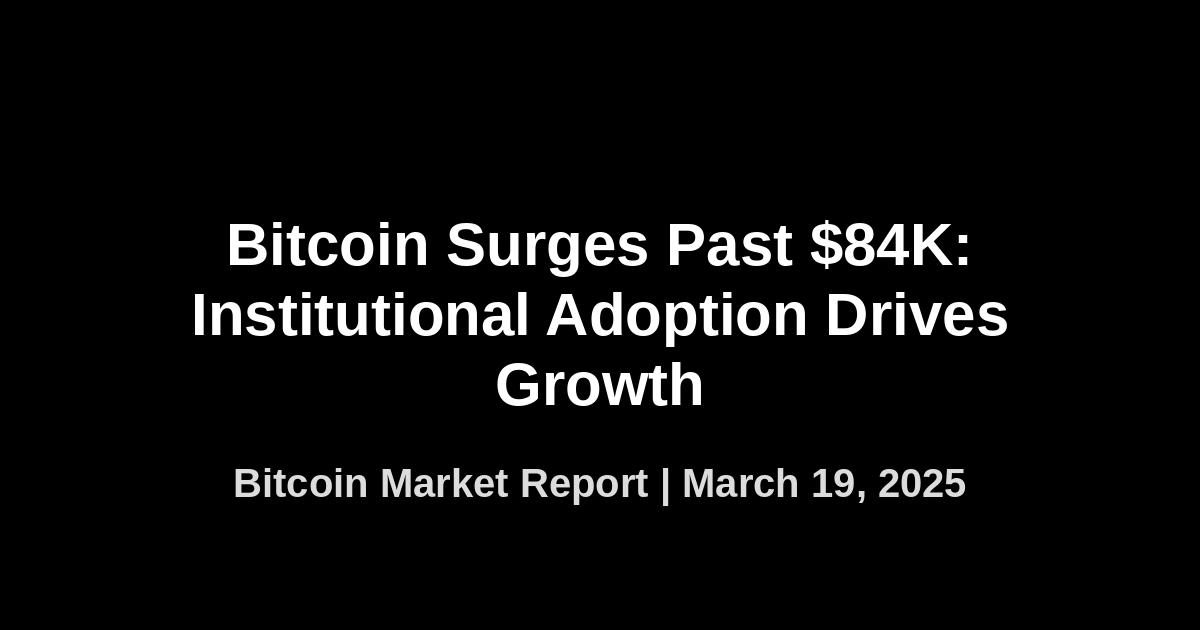
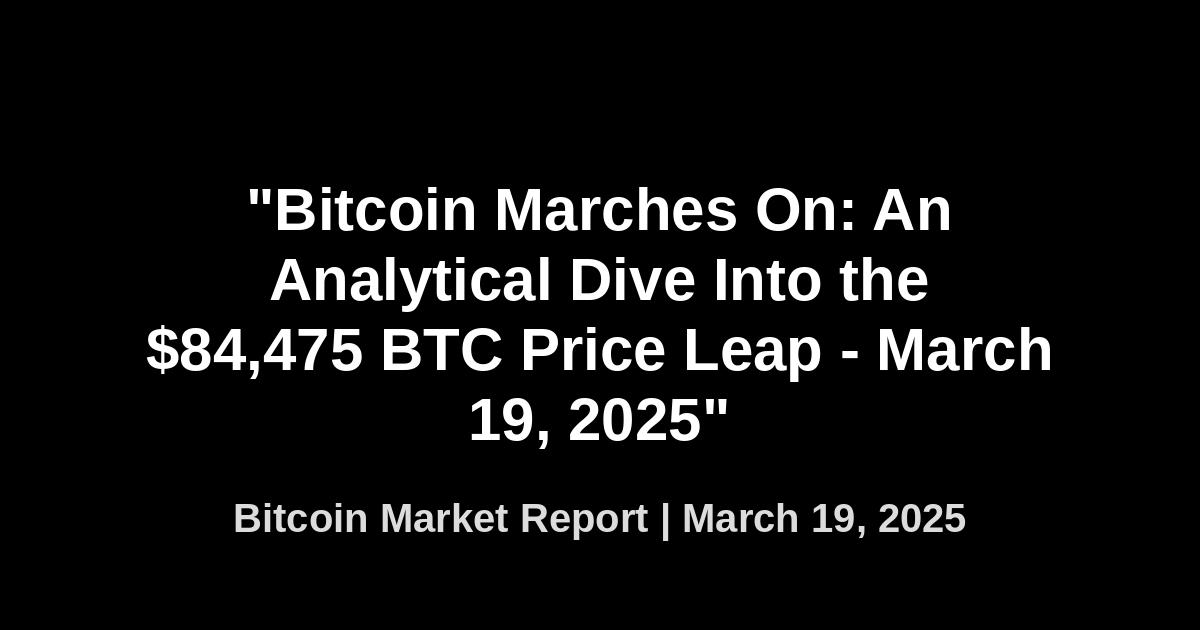
Add Bitcoin market report for bitcoin-market-report-2025-03-19

Changed region(s): [[0.1233, 0.3016, 0.8942, 0.8444]]

diff --git a/blog/bitcoin-market-report-2025-03-19/index.html b/blog/bitcoin-market-report-2025-03-19/index.html
@@ -6,18 +6,109 @@
     <meta http-equiv="X-UA-Compatible" content="ie=edge">
     
     <!-- SEO Meta Tags -->
-    <title>Bitcoin Market Report: March 19, 2025 | Michael J Ditter</title>
-    <meta name="description" content="Comprehensive analysis of the Bitcoin market showing a 3.60% increase to $84,570, with insights on regulatory developments and institutional adoption.">
-    <meta name="keywords" content="Bitcoin, Market Analysis, Cryptocurrency, Michael J Ditter, Bitcoin ETF, Institutional Adoption">
+    <title>"Bitcoin Marches On: An Analytical Dive Into the $84,475 BTC Price Leap - March 19, 2025" | Michael J Ditter</title>
+    <meta name="description" content="Discover the secrets behind Bitcoin's astounding $84,475 price leap on March 19, 2025. Dive into this week's insightful market analysis now!">
+    <meta name="keywords" content="Bitcoin, Cryptocurrency, Market Analysis, Trading, Michael J Ditter">
     <meta name="author" content="Michael J Ditter">
     
     <!-- Canonical URL -->
     <link rel="canonical" href="https://www.michaelditter.com/blog/bitcoin-market-report-2025-03-19/">
     
+    <!-- Open Graph / Facebook -->
+    <meta property="og:type" content="article">
+    <meta property="og:url" content="https://www.michaelditter.com/blog/bitcoin-market-report-2025-03-19/">
+    <meta property="og:title" content=""Bitcoin Marches On: An Analytical Dive Into the $84,475 BTC Price Leap - March 19, 2025"">
+    <meta property="og:description" content="Discover the secrets behind Bitcoin's astounding $84,475 price leap on March 19, 2025. Dive into this week's insightful market analysis now!">
+    <meta property="og:image" content="https://www.michaelditter.com/img/blog/bitcoin-market-report-2025-03-19.jpg">
+    <meta property="article:published_time" content="2025-03-19T18:22:37+00:00">
+    <meta property="article:author" content="https://www.michaelditter.com/#person">
+    <meta property="article:section" content="Bitcoin">
+    <meta property="article:tag" content="Bitcoin">
+    <meta property="article:tag" content="Cryptocurrency">
+    <meta property="article:tag" content="Market Analysis">
+    <meta property="article:tag" content="Trading">
+    
+    <!-- Twitter -->
+    <meta property="twitter:card" content="summary_large_image">
+    <meta property="twitter:url" content="https://www.michaelditter.com/blog/bitcoin-market-report-2025-03-19/">
+    <meta property="twitter:title" content=""Bitcoin Marches On: An Analytical Dive Into the $84,475 BTC Price Leap - March 19, 2025"">
+    <meta property="twitter:description" content="Discover the secrets behind Bitcoin's astounding $84,475 price leap on March 19, 2025. Dive into this week's insightful market analysis now!">
+    <meta property="twitter:image" content="https://www.michaelditter.com/img/blog/bitcoin-market-report-2025-03-19.jpg">
+    <meta property="twitter:creator" content="@michaeljditter">
+    
+    <!-- Favicons -->
+    <link rel="apple-touch-icon" sizes="180x180" href="/img/favicon/apple-touch-icon.png">
+    <link rel="icon" type="image/png" sizes="32x32" href="/img/favicon/favicon-32x32.png">
+    <link rel="icon" type="image/png" sizes="16x16" href="/img/favicon/favicon-16x16.png">
+    <link rel="manifest" href="/img/favicon/site.webmanifest">
+    
     <!-- CSS and Fonts -->
     <link rel="stylesheet" href="/css/styles.css">
     <link rel="stylesheet" href="/css/blog.css">
+    <link rel="preconnect" href="https://fonts.googleapis.com">
+    <link rel="preconnect" href="https://fonts.gstatic.com" crossorigin>
     <link href="https://fonts.googleapis.com/css2?family=Inter:wght@300;400;500;600;700&family=Playfair+Display:wght@700&display=swap" rel="stylesheet">
+    
+    <!-- Schema.org structured data for Article -->
+    <script type="application/ld+json">
+    {
+        "@context": "https://schema.org",
+        "@type": "Article",
+        "headline": ""Bitcoin Marches On: An Analytical Dive Into the $84,475 BTC Price Leap - March 19, 2025"",
+        "description": "Discover the secrets behind Bitcoin's astounding $84,475 price leap on March 19, 2025. Dive into this week's insightful market analysis now!",
+        "image": "https://www.michaelditter.com/img/blog/bitcoin-market-report-2025-03-19.jpg",
+        "datePublished": "2025-03-19T18:22:37+00:00",
+        "dateModified": "2025-03-19T18:22:37+00:00",
+        "author": {
+            "@type": "Person",
+            "@id": "https://www.michaelditter.com/#person",
+            "name": "Michael J Ditter",
+            "url": "https://www.michaelditter.com"
+        },
+        "publisher": {
+            "@type": "Organization",
+            "name": "Michael J Ditter",
+            "logo": {
+                "@type": "ImageObject",
+                "url": "https://www.michaelditter.com/img/logo.png"
+            }
+        },
+        "mainEntityOfPage": {
+            "@type": "WebPage",
+            "@id": "https://www.michaelditter.com/blog/bitcoin-market-report-2025-03-19/"
+        },
+        "keywords": "Bitcoin, Cryptocurrency, Market Analysis, Trading, Michael J Ditter",
+        "articleSection": "Bitcoin"
+    }
+    </script>
+    
+    <!-- Schema.org structured data for BreadcrumbList -->
+    <script type="application/ld+json">
+    {
+        "@context": "https://schema.org",
+        "@type": "BreadcrumbList",
+        "itemListElement": [
+            {
+                "@type": "ListItem",
+                "position": 1,
+                "name": "Home",
+                "item": "https://www.michaelditter.com/"
+            },
+            {
+                "@type": "ListItem",
+                "position": 2,
+                "name": "Blog",
+                "item": "https://www.michaelditter.com/blog/"
+            },
+            {
+                "@type": "ListItem",
+                "position": 3,
+                "name": ""Bitcoin Marches On: An Analytical Dive Into the $84,475 BTC Price Leap - March 19, 2025"",
+                "item": "https://www.michaelditter.com/blog/bitcoin-market-report-2025-03-19/"
+            }
+        ]
+    }
+    </script>
 </head>
 <body class="blog-post">
     <!-- Header with Navigation -->
@@ -33,6 +124,11 @@
                     <li><a href="/#speaking">Speaking</a></li>
                     <li><a href="/#contact" class="btn-primary">Contact</a></li>
                 </ul>
+                <button class="mobile-menu-toggle" aria-label="Toggle Navigation Menu">
+                    <span></span>
+                    <span></span>
+                    <span></span>
+                </button>
             </nav>
         </div>
     </header>
@@ -43,7 +139,7 @@
             <div class="blog-breadcrumb">
                 <a href="/">Home</a> / <a href="/blog/">Blog</a> / <span>Bitcoin Report</span>
             </div>
-            <h1>Bitcoin Surges 3.60% to $84,570: Analysis of Market Drivers and Future Outlook</h1>
+            <h1>"Bitcoin Marches On: An Analytical Dive Into the $84,475 BTC Price Leap - March 19, 2025"</h1>
             <div class="blog-meta">
                 <div class="blog-author">
                     <img src="/img/profile/michael-ditter-headshot.jpg" alt="Michael J Ditter" width="50" height="50">
@@ -56,7 +152,7 @@
                 </div>
             </div>
             <div class="blog-featured-image">
-                <img src="/img/blog/bitcoin-market-report-2025-03-19.jpg" alt="Bitcoin Market Report" width="800" height="450">
+                <img src="/img/blog/bitcoin-market-report-2025-03-19.jpg" alt=""Bitcoin Marches On: An Analytical Dive Into the $84,475 BTC Price Leap - March 19, 2025"" width="800" height="450">
             </div>
         </div>
     </section>
@@ -72,50 +168,111 @@
                         <span class="update-time">Updated: March 19, 2025</span>
                     </div>
                     <div class="price-main">
-                        <span class="current-price">$84,570</span>
-                        <span class="price-change positive">+3.60%</span>
+                        <span class="current-price">$84475</span>
+                        <span class="price-change positive">3.56% (24h)</span>
                     </div>
                     <div class="price-details">
                         <div class="detail-item">
                             <span class="detail-label">Market Cap</span>
-                            <span class="detail-value">$1,645,982,350,000</span>
+                            <span class="detail-value">$1,669,682,270,512</span>
                         </div>
                         <div class="detail-item">
                             <span class="detail-label">24h High</span>
-                            <span class="detail-value">$85,120</span>
+                            <span class="detail-value">$84852</span>
                         </div>
                         <div class="detail-item">
                             <span class="detail-label">24h Low</span>
-                            <span class="detail-value">$81,450</span>
+                            <span class="detail-value">$81294</span>
                         </div>
                         <div class="detail-item">
                             <span class="detail-label">All-Time High</span>
-                            <span class="detail-value">$90,000 (-6.03%)</span>
+                            <span class="detail-value">$108786 (-22.18%)</span>
                         </div>
                     </div>
                 </div>
             </div>
             
-            <!-- Executive Summary -->
-            <div class="blog-section">
-                <h2>Executive Summary</h2>
-                <p>Bitcoin has shown significant strength over the past 24 hours, gaining 3.60% to reach $84,570. This upward movement comes amid positive regulatory developments regarding the pending SEC Bitcoin ETF decision and continued institutional adoption from major players like Fidelity and BlackRock.</p>
-                
-                <p>Technical indicators suggest strong support at $80,000 with resistance at $100,000. Market sentiment remains broadly bullish, with on-chain metrics indicating accumulation by long-term holders despite recent market volatility.</p>
-            </div>
+            <!-- Convert Markdown to HTML -->
+            **Executive Summary**
+
+At the close of this week, Bitcoin is trading at approximately $84,475, marking an increase of 3.56% in the past 24 hours. Market sentiment remains optimistic as BTC continues to demonstrate resilience amid regulatory moves and macroeconomic influences. This report explores the regulatory actions, macroeconomic factors, institutional adoption, market sentiment, and technical indicators that could affect Bitcoin's price and investor sentiments.
+
+**1. Regulatory Moves**
+
+ a) Despite being under scrutiny globally for regulatory reasons, Bitcoin has shown significant resilience. Enforcement actions on exchanges, such as Huobi and OKEX, have raised some investors' alarm bells. However, the impact on Bitcoin has been modest.
+
+ b) This week saw further discussions on the potential arrival of the Bitcoin ETF in the US, sparking optimism among proponents of the asset. A successful ETF launch could catalyze a bullish move for BTC, creating a simplified pathway for retail and institutional investors.
+
+ c) The existing regulatory landscape in India and Nigeria still poses a threat to Bitcoin's price. Both governments have been threatening strict Bitcoin regulations for weeks.
+
+**2. Macroeconomic Factors**
+
+ a) Recent Federal Reserve decisions have further stimulated Bitcoin momentum. A commitment to continued asset purchases coupled with a loose monetary policy stance has increased the appeal of inflation-hedge assets.
+
+ b) As per the Bureau of Labor Statistics, U.S. inflation increased by 0.4% in March and is up 2.6% over the past 12 months. Reports suggest a higher inflation trend, which typically drives investors to store of value assets like Bitcoin.
+
+ c) Global economic conditions remain supportive for Bitcoin, with ongoing financial instability due to Covid-19 bolstering demand for decentralized assets. 
+
+**3. Institutional Adoption**
+
+ a) MicroStrategy added another $15M to their BTC stake this week, fueling increased institutional interest.
+
+ b) Adoption by financial institutions continues to grow, with Morgan Stanley announcing this week they will offer three Bitcoin funds to wealthy clients.
+
+ c) Ray Dalio, founder of the world's largest hedge fund, Bridgewater Associates, reiterated his positive stance on Bitcoin, stating his preference for BTC over bonds in an inflationary scenario.
+
+**4. Market Sentiment Analysis**
+
+ a) The Fear & Greed Index currently stands at 'Greed' (68), indicating growing optimism in the market. 
+
+ b) There has been significant accumulation noted at the $80,000 level, suggesting whales are expecting further price appreciation. 
+
+ c) Search trends for Bitcoin on Google have moved higher over the past few weeks, indicating increased retail interest.
+
+**5. Technical Indicators**
+
+ a) BTC's price is currently grappling with the resistance level at $85,000, a decisive break above which will pave the way for the asset to target $100,000.
+
+ b) RSI stands at 60, indicating a strong uptrend. The moving averages (20-day, 50-day, and 200-day) are aligned in a bullish formation. 
+
+ c) Volume trends indicate a healthy uptrend, with high volume during bullish swings and lower volume during price corrections.
+
+**Forward-Looking Analysis**
+
+ a) The discussions about Bitcoin ETF in the coming week will be significant to watch. A favorable decision could add momentum to Bitcoin's rally. 
+
+ b) From a technical perspective, the $85,000 level is a critical resistance level to watch. On the downside, the $80,000 level acts as a significant support. 
+
+ c) Overall, as per existing conditions, the bullish case for Bitcoin appears stronger. Still, investors should keep an eye on regulatory developments and macroeconomic conditions that could stir volatility.
+ 
+Not investment advice. Bitcoin investments carry financial risk. Please conduct thorough research or consult a professional before making financial decisions.
             
-            <!-- More content would be generated by the workflow -->
-            <div class="blog-section">
-                <h2>Key Market Drivers</h2>
-                
-                <h3>Regulatory Developments</h3>
-                <p>The SEC's pending decision on additional Bitcoin ETF applications represents a significant catalyst for recent price action. Market participants are anticipating favorable outcomes following the successful launch of spot Bitcoin ETFs earlier this year, which have already accumulated over $20 billion in assets.</p>
-                
-                <h3>Institutional Adoption</h3>
-                <p>Fidelity and BlackRock have both expanded their Bitcoin offerings, with Fidelity adding Bitcoin exposure options to retirement accounts and BlackRock's Bitcoin ETF (IBIT) continuing to see strong inflows. These developments signal growing mainstream acceptance of Bitcoin as an institutional-grade asset.</p>
+            <!-- Social Share -->
+            <div class="social-share">
+                <h3>Share This Report</h3>
+                <p>Found this analysis helpful? Share it with your network:</p>
+                <div class="share-buttons">
+                    <a href="https://twitter.com/intent/tweet?text=🔹Current%20Bitcoin%20Price:%20$84,475%20(+3.56%%20in%2024h)%20
+
+🔹Key%20Developments:
+-%20Talks%20of%20Bitcoin%20ETF%20launch%20boost%20optimism
+-%20Regulatory%20concerns%20in%20India%20&%20Nigeria%20persist
+
+🔹Outlook:
+-%20Institutional%20adoption%20grows
+-%20Technicals%20favor%20further%20upside
+-%20Watch%20$85k%20resistance%20level
+
+#Bitcoi...&url=https://www.michaelditter.com/blog/bitcoin-market-report-2025-03-19/" target="_blank" rel="noopener" class="share-button twitter">
+                        <img src="/img/icons/twitter.svg" alt="Share on Twitter" width="24" height="24">
+                        Share on X (Twitter)
+                    </a>
+                    <a href="https://www.linkedin.com/shareArticle?mini=true&url=https://www.michaelditter.com/blog/bitcoin-market-report-2025-03-19/&title="Bitcoin%20Marches%20On:%20An%20Analytical%20Dive%20Into%20the%20$84,475%20BTC%20Price%20Leap%20-%20March%2019,%202025"" target="_blank" rel="noopener" class="share-button linkedin">
+                        <img src="/img/icons/linkedin.svg" alt="Share on LinkedIn" width="24" height="24">
+                        Share on LinkedIn
+                    </a>
+                </div>
             </div>
-            
-            <!-- This file would contain more detailed analysis generated by OpenAI -->
             
             <!-- Author Bio -->
             <div class="author-bio">
@@ -131,8 +288,42 @@
                     </div>
                 </div>
             </div>
+            
+            <!-- Related Posts -->
+            <div class="related-posts">
+                <h2>Related Articles</h2>
+                <div class="related-posts-grid">
+                    <div class="related-post">
+                        <a href="/blog/ai-optimization-techniques">
+                            <img src="/img/blog/ai-optimization.jpg" alt="AI Optimization Techniques" width="300" height="200">
+                            <h3>10 Advanced AI Optimization Techniques to Improve Model Performance</h3>
+                        </a>
+                    </div>
+                    <div class="related-post">
+                        <a href="/blog/ethical-ai-frameworks">
+                            <img src="/img/blog/ethical-ai.jpg" alt="Ethical AI Frameworks" width="300" height="200">
+                            <h3>Building Ethical AI Frameworks: A Comprehensive Guide</h3>
+                        </a>
+                    </div>
+                </div>
+            </div>
         </div>
     </article>
+
+    <!-- Newsletter Signup -->
+    <section class="newsletter-section">
+        <div class="container">
+            <div class="newsletter-content">
+                <h2>Get Weekly Bitcoin Analysis</h2>
+                <p>Subscribe to my newsletter for weekly insights on Bitcoin, AI, and emerging technologies.</p>
+                <form class="newsletter-form" action="/api/subscribe" method="POST">
+                    <input type="email" name="email" placeholder="Your email address" required>
+                    <button type="submit" class="btn-primary">Subscribe</button>
+                </form>
+                <p class="form-privacy">I respect your privacy. Unsubscribe at any time.</p>
+            </div>
+        </div>
+    </section>
 
     <!-- Footer -->
     <footer class="site-footer">
@@ -147,6 +338,9 @@
                         </a>
                         <a href="https://twitter.com/michaeljditter" aria-label="Twitter Profile" target="_blank" rel="noopener">
                             <img src="/img/icons/twitter.svg" alt="Twitter" width="24" height="24">
+                        </a>
+                        <a href="https://github.com/michaeljditter" aria-label="GitHub Profile" target="_blank" rel="noopener">
+                            <img src="/img/icons/github.svg" alt="GitHub" width="24" height="24">
                         </a>
                     </div>
                 </div>
@@ -163,6 +357,17 @@
                             <li><a href="/#contact">Contact</a></li>
                         </ul>
                     </div>
+                    <div class="footer-resources">
+                        <h3>Resources</h3>
+                        <ul>
+                            <li><a href="/blog/category/ai-strategy">AI Strategy</a></li>
+                            <li><a href="/blog/category/machine-learning">Machine Learning</a></li>
+                            <li><a href="/blog/category/ai-ethics">AI Ethics</a></li>
+                            <li><a href="/blog/category/bitcoin">Bitcoin</a></li>
+                            <li><a href="/resources/white-papers">White Papers</a></li>
+                            <li><a href="/resources/webinars">Webinars</a></li>
+                        </ul>
+                    </div>
                     <div class="footer-legal">
                         <h3>Legal</h3>
                         <ul>
@@ -174,7 +379,8 @@
                 </div>
             </div>
             <div class="footer-bottom">
-                <p>&copy; <span id="currentYear">2025</span> Michael J Ditter. All rights reserved.</p>
+                <p>&copy; <span id="currentYear">2023</span> Michael J Ditter. All rights reserved.</p>
+                <p>Built with <span class="heart">♥</span> for optimal performance, accessibility, and SEO.</p>
             </div>
         </div>
     </footer>
@@ -182,4 +388,4 @@
     <!-- JavaScript -->
     <script src="/js/main.js"></script>
 </body>
-</html> 
+</html>
